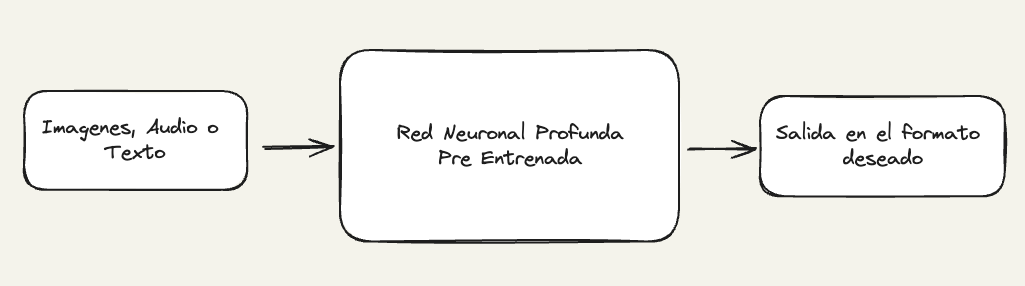
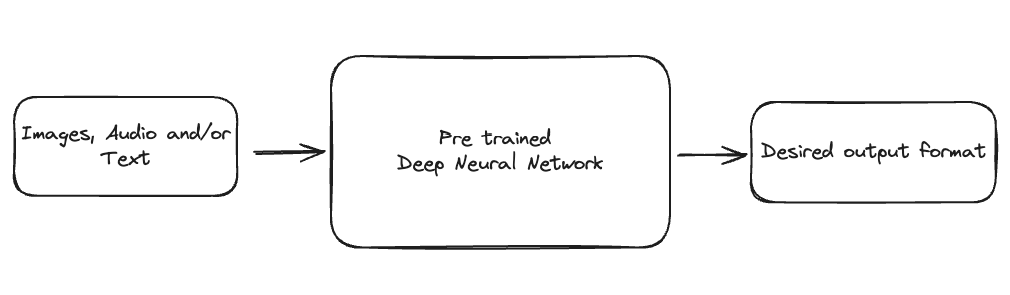
Update

diff --git a/content/blog/learning-ai-from-zero.md b/content/blog/learning-ai-from-zero.md
@@ -15,10 +15,10 @@ To learn Artificial Intelligence from scratch, FreeCodingTour offers three cours
 The AI Learning Methodology at FreeCodingTour is based on the following principles:
 
 - Step 1: Learn programming as a process of **Input -> Process -> Output** where the Process can be seen as a black box. As masterfully described by [Richard Feynman](https://www.youtube.com/watch?v=EKWGGDXe5MA).
-![input process output](/blog-imgs/learning-ai-from-zero/entrada-proceso-salida.png)
+![input process output](/blog-imgs/learning-ai-from-zero/input-process-output.png)
 - Step 2: Learn to test if our programs work well through the methodology of [**Test Cases**](https://es.wikipedia.org/wiki/Desarrollo_guiado_por_pruebas).
 This is very important and useful as it introduces us to a practice widely used in the software industry and also opens the door if we later want to delve into the field of algorithms since all interviews and competitions are based on this method.
-![test cases](/blog-imgs/learning-ai-from-zero/casos-de-prueba.png)
+![test cases](/blog-imgs/learning-ai-from-zero/test-cases.png)
 - Step 3: Learn Data Science with the Machine Learning Methodology. That is, admitting that nature is very complex (as [Vladimir Vapnik](https://www.learningtheory.org/learning-has-just-started-an-interview-with-prof-vladimir-vapnik/) says), setting aside ([at least at the beginning](https://projecteuclid.org/journals/statistical-science/volume-16/issue-3/Statistical-Modeling--The-Two-Cultures-with-comments-and-a/10.1214/ss/1009213726.full)) the frequentist and Bayesian methodologies, and accepting that we definitely need machines that can perform millions of computations per second.
 Once accepted, we can view Machine Learning as a method for a machine to automatically learn a process that we cannot describe but can specify what the inputs and outputs of that process should be. In other words, understand Machine Learning as **Automatic Programming guided by Test Cases**.
 ![machine learning](/blog-imgs/learning-ai-from-zero/machine-learning.png)
